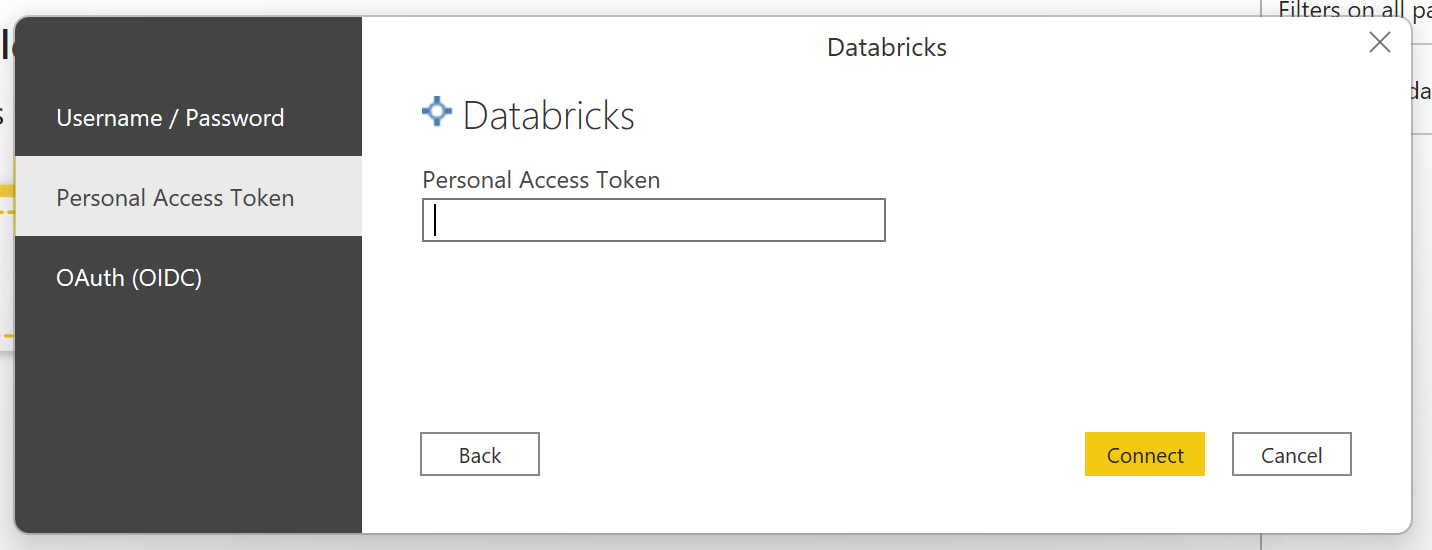
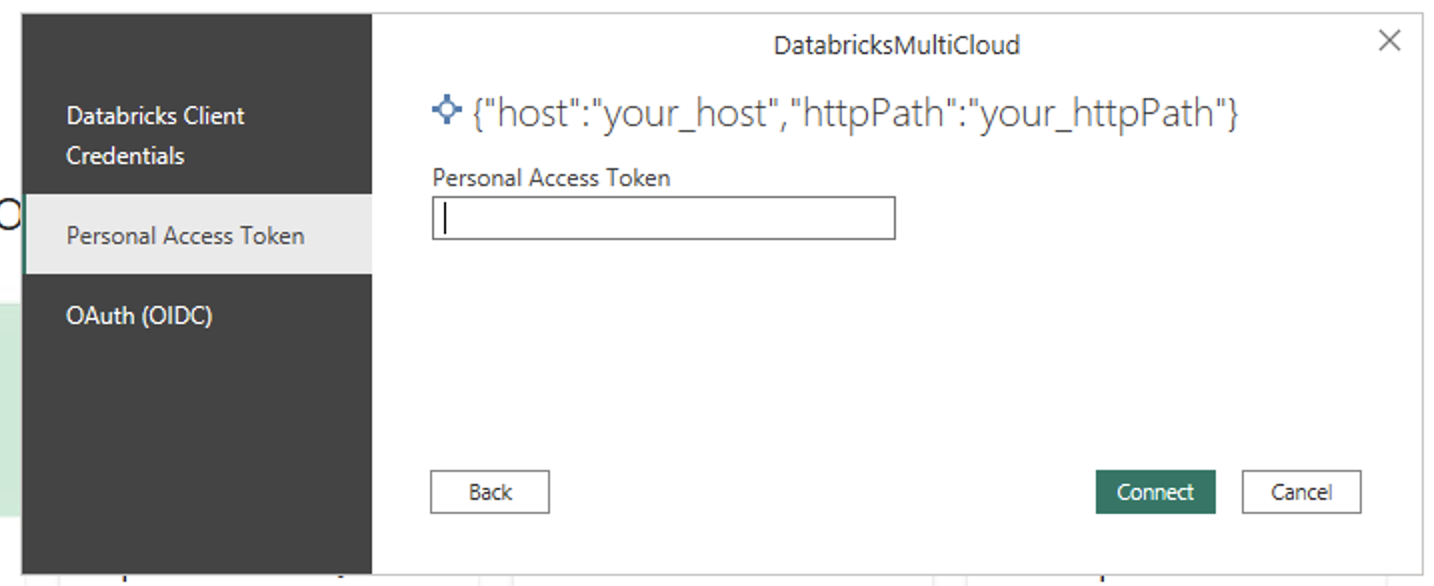
add databricks m2m wiki

Changed region(s): [[0.0, 0.0, 1.0, 1.0], [0.7374, 0.7727, 0.9525, 0.8964], [0.5223, 0.0618, 0.7374, 0.1236]]

diff --git a/powerquery-docs/connectors/databricks-azure.md b/powerquery-docs/connectors/databricks-azure.md
@@ -41,7 +41,7 @@ To connect to Databricks from Power Query Desktop, take the following steps:
 
 3. Provide your credentials to authenticate with your Databricks SQL Warehouse. There are three options for credentials:
 
-    * Username / Password (useable for AWS or GCP). This option isn't available if your organization/account uses 2FA/MFA.
+    * Databricks Client Credentials. Refer to [Databricks OAuth M2M](/azure/databricks/dev-tools/auth/oauth-m2m) for instructions on generating Databricks OAuth M2M Client Credentials.
     * Personal Access Token (useable for AWS, Azure or GCP). Refer to [Personal access tokens](/azure/databricks/sql/user/security/personal-access-tokens) for instructions on generating a Personal Access Token (PAT).
     * Azure Active Directory (useable only for Azure). Sign in to your organizational account using the browser popup.
 

diff --git a/powerquery-docs/connectors/databricks.md b/powerquery-docs/connectors/databricks.md
@@ -48,7 +48,7 @@ To connect to Databricks from Power Query Desktop, take the following steps:
 
 3. Provide your credentials to authenticate with your Databricks SQL Warehouse. You have three options for credentials:
 
-    * Username / Password. This option isn't available if your organization/account uses 2FA/MFA.
+    * Databricks Client Credentials. Refer to [Databricks OAuth M2M](https://docs.databricks.com/aws/en/dev-tools/auth/oauth-m2m) for instructions on generating Databricks OAuth M2M Client Credentials.
     * Personal Access Token. Refer to [Personal access tokens](/azure/databricks/sql/user/security/personal-access-tokens) for instructions on generating a Personal Access Token (PAT).
     * OAuth (OIDC). Sign in to your organizational account using the browser popup.
 
